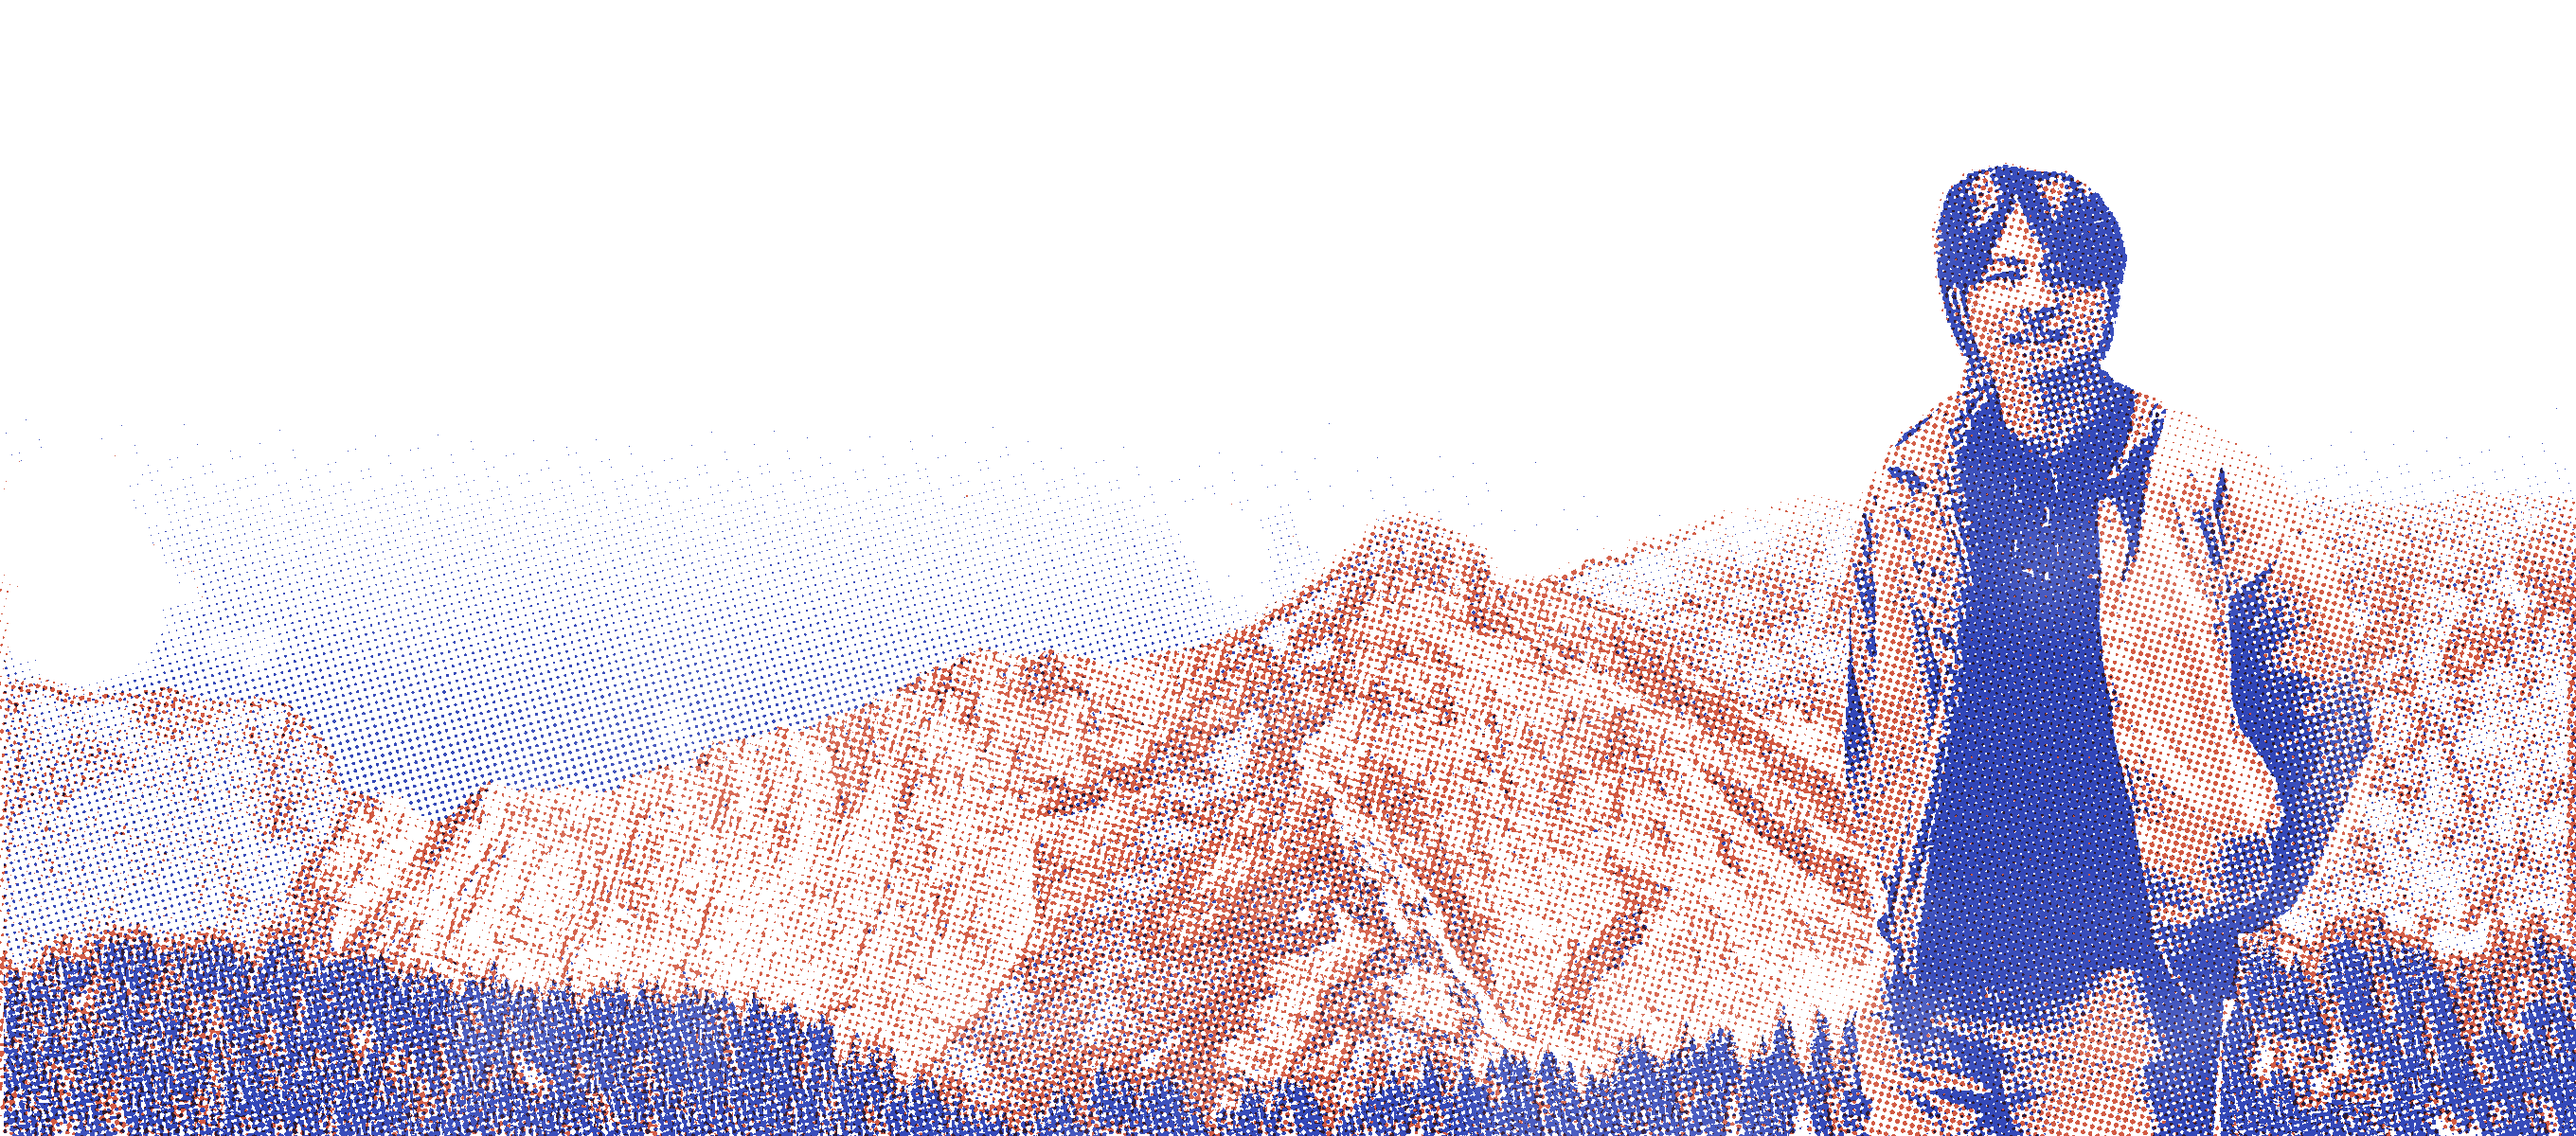
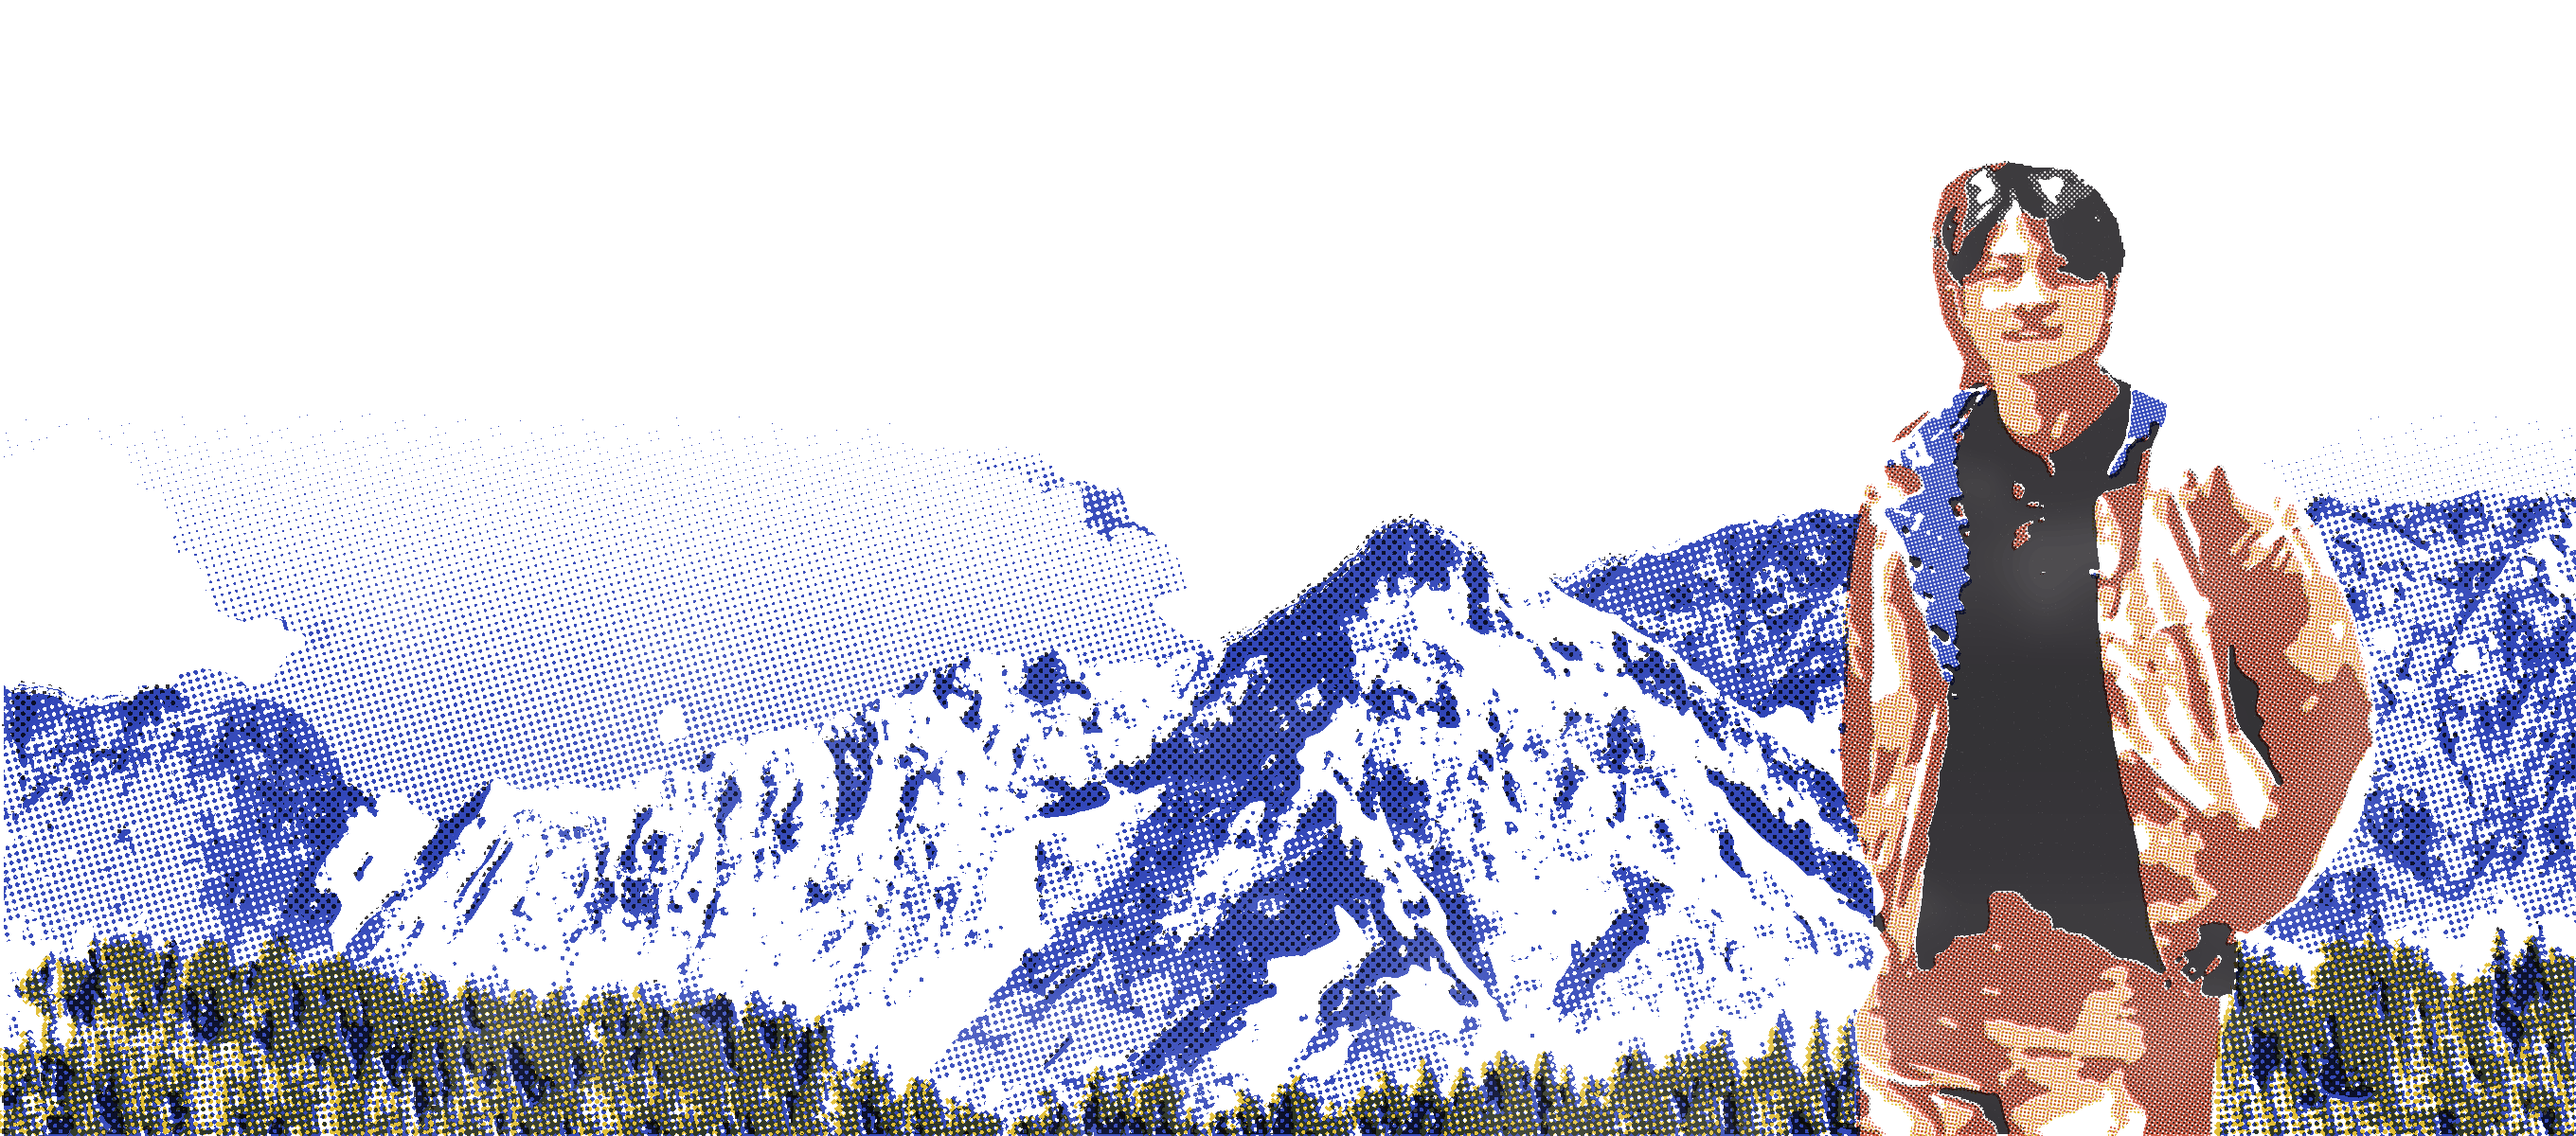
Four-ink landscape only; publish build-time images as files
Landscape: four-ink is now the only separation. The hand-written two-ink
separation is removed; render-home-landscape.mjs only prints the committed
plates (output identical to the reviewed four-ink trial).

Page weight: static print fallbacks, tool-rendered plates and contact
icons were inlined as base64 (index.html 2.97 MB). They are now written
as content-hashed files and published under /_print/ by a small Astro
integration (served in dev too). Fallbacks sit in <noscript>, so visitors
with JS never download them; the client loads tool plates directly
(imageCoverage). index.html is now 1.23 MB (main: 2.28 MB);
verify-build guards against inline PNGs and size regressions.

Claude-Session: https://claude.ai/code/session_01AwCbWbsfmMjfusHVwzczHG

diff --git a/src/design/motifs.ts b/src/design/motifs.ts
@@ -15,7 +15,9 @@ export {motifScreenLevel} from './motif-levels.ts';
 // Same ink shares one plate; material is applied by the shared print pipeline.
 // Composition overlap is distinct from plate registration; the latter uses
 // reference SVG units and scales with the printed object, not the viewport.
-function motifParts(s:Settings,id:string,kind:Motif){
+/** Plate href: the data URL itself (static render, design desk) or a published file URL (page HTML). */
+export type PlateHref=(dataUrl:string,ink:'a'|'b'|'c'|'d',kind:Motif)=>string;
+function motifParts(s:Settings,id:string,kind:Motif,href:PlateHref=u=>u){
  const p=s.fieldPitch,r=p*Math.sqrt(s.fieldCoverage/Math.PI),o=1-s.fieldOverlap;
  const pattern=['a','b'].map(plate=>`<pattern id="${id}-${plate}-dots" width="${p}" height="${p}" patternUnits="userSpaceOnUse" patternTransform="rotate(${plate==='a'?s.secondaryAngle:s.primaryAngle})"><circle cx="${p/2}" cy="${p/2}" r="${r}" fill="var(--${plate==='a'?'red':'blue'}-ink)"/></pattern>`).join('');
  const dotsA=`url(#${id}-a-dots)`,dotsB=`url(#${id}-b-dots)`;
@@ -27,12 +29,12 @@ function motifParts(s:Settings,id:string,kind:Motif){
  // Ocean and land are one source image before screening. The shared sphere
  // illumination is applied across both; coastlines change ink demand, not mesh.
  const earth=`<g data-print-tone="sphere" fill="${dotsA}" transform="translate(${185+o*35} 107)"><circle r="87" opacity=".32"/><path d="${earthLandPath}"/></g>`;
- const plate=plates[kind];if(plate){const img=(href:string)=>`<image data-print-tone="source" href="${href}" x="0" y="0" width="360" height="220" preserveAspectRatio="none"/>`;return {pattern,a:img(plate.a),b:img(plate.b),c:plate.c?img(plate.c):'',d:plate.d?img(plate.d):''};}
+ const plate=plates[kind];if(plate){const img=(ink:'a'|'b'|'c'|'d')=>plate[ink]?`<image data-print-tone="source" href="${href(plate[ink]!,ink,kind)}" x="0" y="0" width="360" height="220" preserveAspectRatio="none"/>`:'';return {pattern,a:img('a'),b:img('b'),c:img('c'),d:img('d')};}
  return {pattern,a:kind==='earth'?earth:a,b,c:'',d:''};
 }
 
-export function motifMarkup(s:Settings,id:string,kind:Motif){
- const {pattern,a,b,c,d}=motifParts(s,id,kind);
+export function motifMarkup(s:Settings,id:string,kind:Motif,href?:PlateHref){
+ const {pattern,a,b,c,d}=motifParts(s,id,kind,href);
  // Accent plates (c yellow, d dark) are drawn first so the fallback reads like the print.
  const accent=(ink:'c'|'d',m:string,x:number,y:number)=>m?`<g class="he-field-${ink}" style="transform:translate(${x}px,${y}px)">${m}</g>`:'';
  return `<defs>${pattern}</defs><g>${accent('c',c,s.yellowX,s.yellowY)}<g class="he-field-a">${a}</g><g class="he-field-b" style="transform:translate(${s.registration}px,${s.registrationY}px)">${b}</g>${accent('d',d,s.darkX,s.darkY)}</g>`;

diff --git a/src/config/home-landscape.ts b/src/config/home-landscape.ts
@@ -1,7 +1,7 @@
-/** Home landscape (user, 2026-10-21): Max's own photograph of the Wetterstein ridge with
- * his portrait standing in front of it, printed in the two inks. It replaces the
- * portrait-with-circle and the vermilion block. Sources stay out of public/; only the
- * printed result is published (scripts/render-home-landscape.mjs). */
+/** Home landscape (user, 2026-10-21; four inks from 2026-10-26): Max's own photograph of
+ * the Wetterstein ridge with his portrait standing in front of it. The separation into
+ * ink plates is design/photo/home_landscape_4c.py (sources stay out of public/); the
+ * printed result is published by scripts/render-home-landscape.mjs. */
 export const homeLandscape={
  mountain:'src/assets/home/mountain.jpg',
  personSource:'public/images/portrait-source-cutout.png',
@@ -12,15 +12,13 @@ export const homeLandscape={
  band:{height:400,source:{left:0,top:320,width:2400,height:706}},
  /** Person placement: height and centre x as fractions of the sheet, standing on the bottom edge. */
  placement:{height:.92,x:.8},
- /** Screen tier for a large photographic print. */
+ /** Landscape screen: medium, so the dots read (user, 2026-10-25). */
  screen:'medium' as const,displaySize:96,
  /** Reference sheet position (home at 1440). */
  origin:{x:40,y:420},
- /** 'two-ink' (approved) or 'four-ink' (trial, 2026-10-25): plates from design/photo/home_landscape_4c.py. */
- separation:'two-ink' as 'two-ink'|'four-ink',
- fourInkPlates:'src/assets/home/landscape-4c',
- /** Four inks keep the landscape's medium tier: the dots should read (user, 2026-10-25). */
- fourInkScreen:'medium' as const,
+ /** Four-ink plates written by design/photo/home_landscape_4c.py: {a,b,c,d}.png (landscape)
+  * and figure-{a,b,c,d}.png (the person). */
+ plates:'src/assets/home/landscape-4c',
  /** The person prints on the fine screen (2px), like the portrait (user, 2026-10-26). */
  figureScreen:'fine' as const,
 };

diff --git a/scripts/print-static.ts b/scripts/print-static.ts
@@ -1,0 +1,39 @@
+import fs from 'node:fs/promises';
+import path from 'node:path';
+import {fileURLToPath} from 'node:url';
+import type {AstroIntegration} from 'astro';
+import {staticPrintDir, staticPrintRoute} from '../src/design/static-files.mjs';
+
+/** Serves /_print/ from .design/print-static in dev, and copies the files a build
+ * referenced into dist/_print/. The directory is emptied when a build starts, so only
+ * files written by the current render are published. */
+export function printStatic(): AstroIntegration {
+  return {
+    name: 'print-static',
+    hooks: {
+      'astro:build:start': async () => {
+        await fs.rm(staticPrintDir, {recursive: true, force: true});
+      },
+      'astro:server:setup': ({server}) => {
+        server.middlewares.use(async (req, res, next) => {
+          const url = req.url?.split('?')[0] || '';
+          if (!url.startsWith(staticPrintRoute)) return next();
+          const file = path.join(staticPrintDir, path.basename(url));
+          try {
+            const bytes = await fs.readFile(file);
+            res.setHeader('Content-Type', 'image/png');
+            res.setHeader('Cache-Control', 'no-store');
+            res.end(bytes);
+          } catch { res.statusCode = 404; res.end(); }
+        });
+      },
+      'astro:build:done': async ({dir, logger}) => {
+        const out = path.join(fileURLToPath(dir), staticPrintRoute);
+        await fs.mkdir(out, {recursive: true});
+        const files = await fs.readdir(staticPrintDir).catch(() => []);
+        for (const file of files) await fs.copyFile(path.join(staticPrintDir, file), path.join(out, file));
+        logger.info(`Published ${files.length} print images to ${staticPrintRoute}`);
+      },
+    },
+  };
+}

diff --git a/src/client/print-material.ts b/src/client/print-material.ts
@@ -1,4 +1,4 @@
-import {prepareInkGroup,paperOrigin,textCoverage,pixelSurface,publishCanvas,svgCoverage,createPrintMount,alphaMaskURL,publishMask,clearMask} from '../design/print-pipeline/browser';
+import {prepareInkGroup,paperOrigin,textCoverage,pixelSurface,publishCanvas,svgCoverage,imageCoverage,createPrintMount,alphaMaskURL,publishMask,clearMask} from '../design/print-pipeline/browser';
 import {typeScreenLevel} from '../design/screen';
 import {motifScreenLevel,type Motif} from '../design/motif-levels';
 import {dotPitch} from '../design/print-pipeline/index';
@@ -88,9 +88,9 @@ const decodeImage=(url:string)=>{const image=new Image();image.src=url;return im
      for(const [index,node] of children.entries()){
       const patterned=(node.getAttribute('fill')||'').startsWith('url('),e=node.cloneNode(true) as Element;
       if(patterned)e.setAttribute('fill','black');
-      const source=await svgCoverage(e.outerHTML,w,h);if(run!==generation||!ticket.current())return;
-      const ring=e.tagName==='circle'&&e.getAttribute('fill')==='none'&&Number(e.getAttribute('stroke-width'))>=6;
       const fromTool=e.tagName==='image'&&e.getAttribute('data-print-tone')==='source';
+      const source=fromTool?await imageCoverage(e.getAttribute('href')!,w,h):await svgCoverage(e.outerHTML,w,h);if(run!==generation||!ticket.current())return;
+      const ring=e.tagName==='circle'&&e.getAttribute('fill')==='none'&&Number(e.getAttribute('stroke-width'))>=6;
       const screened=patterned||ring||fromTool;if(screened)screenedInks.add(ink);
       const kind=fromTool?'source':e.getAttribute('data-print-tone')==='sphere'||e.tagName==='circle'&&!ring?'sphere':'plane';
       originals.push({ink,coverage:source,screened,ring,kind,index});

diff --git a/src/design/print-pipeline/browser.ts b/src/design/print-pipeline/browser.ts
@@ -34,6 +34,16 @@ export async function svgCoverage(markup:string,w:number,h:number){
  try{await new Promise<void>((ok,bad)=>{image.onload=()=>ok();image.onerror=bad;image.src=url;});ctx.drawImage(image,0,0);}finally{URL.revokeObjectURL(url);}
  const rgba=ctx.getImageData(0,0,w,h).data;return Float32Array.from({length:w*h},(_,i)=>rgba[i*4+3]/255);
 }
+/** Coverage of a tool-rendered plate (alpha = ink density) published as a file. An SVG
+ * rasterised as an image may not load external files, so the plate is drawn directly,
+ * stretched to the 360×220 artboard like its <image> element. */
+export async function imageCoverage(href:string,w:number,h:number){
+ const c=surface(w,h),ctx=c.getContext('2d',{willReadFrequently:true})!,image=new Image();
+ image.decoding='async';
+ await new Promise<void>((ok,bad)=>{image.onload=()=>ok();image.onerror=bad;image.src=href;});
+ ctx.drawImage(image,0,0,w,h);
+ const rgba=ctx.getImageData(0,0,w,h).data;return Float32Array.from({length:w*h},(_,i)=>rgba[i*4+3]/255);
+}
 /** Development-only geometry markers; never part of an ink plate. */
 export function drawAnchorProof(canvas:HTMLCanvasElement,points:{x:number;y:number}[],color:string,dpr:number){
  const context=canvas.getContext('2d')!;context.save();context.setTransform(dpr,0,0,dpr,0,0);context.strokeStyle=color;context.lineWidth=1;

diff --git a/src/styles/print-material.css b/src/styles/print-material.css
@@ -28,8 +28,8 @@
 #personal-site .he-project-ground{mix-blend-mode:multiply;}
 
 /* Pre-rendered material remains until a complete live plate is published. */
-#personal-site .he-field-fallback{position:absolute;inset:0;width:100%;height:100%;transform:scale(var(--field-scale));transform-origin:50% 60%;pointer-events:none;}
-#personal-site .he-field-fallback~.he-print-field{opacity:0;}
+#personal-site .he-field-fallback{position:absolute;inset:0;width:100%;height:100%;object-fit:contain;transform:scale(var(--field-scale));transform-origin:50% 60%;pointer-events:none;}
+#personal-site .he-print-object>.he-print-field{opacity:0;}
 #personal-site [data-material-ready="true"]>.he-field-fallback{visibility:hidden;}
 /* Same rule for decorative print fields: the reference-layout fallback is for no-JS visitors. */
 #personal-site[data-enhanced] .he-field-fallback{visibility:hidden;}

diff --git a/design/photo/home_landscape_4c.py b/design/photo/home_landscape_4c.py
@@ -158,7 +158,7 @@ plates[py:py + ph, x0:x1] = np.where(a, 0, plates[py:py + ph, x0:x1])
 figure = np.zeros_like(plates); figure[py:py + ph, x0:x1] = np.where(a, pd[:, sx:sx + x1 - x0], 0)
 
 # ---------------------------------------------------------------- output
-out = root / 'src' / 'assets' / 'home' / 'landscape-4c'; out.mkdir(parents=True, exist_ok=True)
+out = root / L['plates']; out.mkdir(parents=True, exist_ok=True)
 for prefix, layer in (('', plates), ('figure-', figure)):
     for i, ink in enumerate(INKS):
         img = np.zeros((H, W, 4), np.uint8); img[..., 3] = np.round(np.clip(layer[..., i], 0, 1) * 255)
